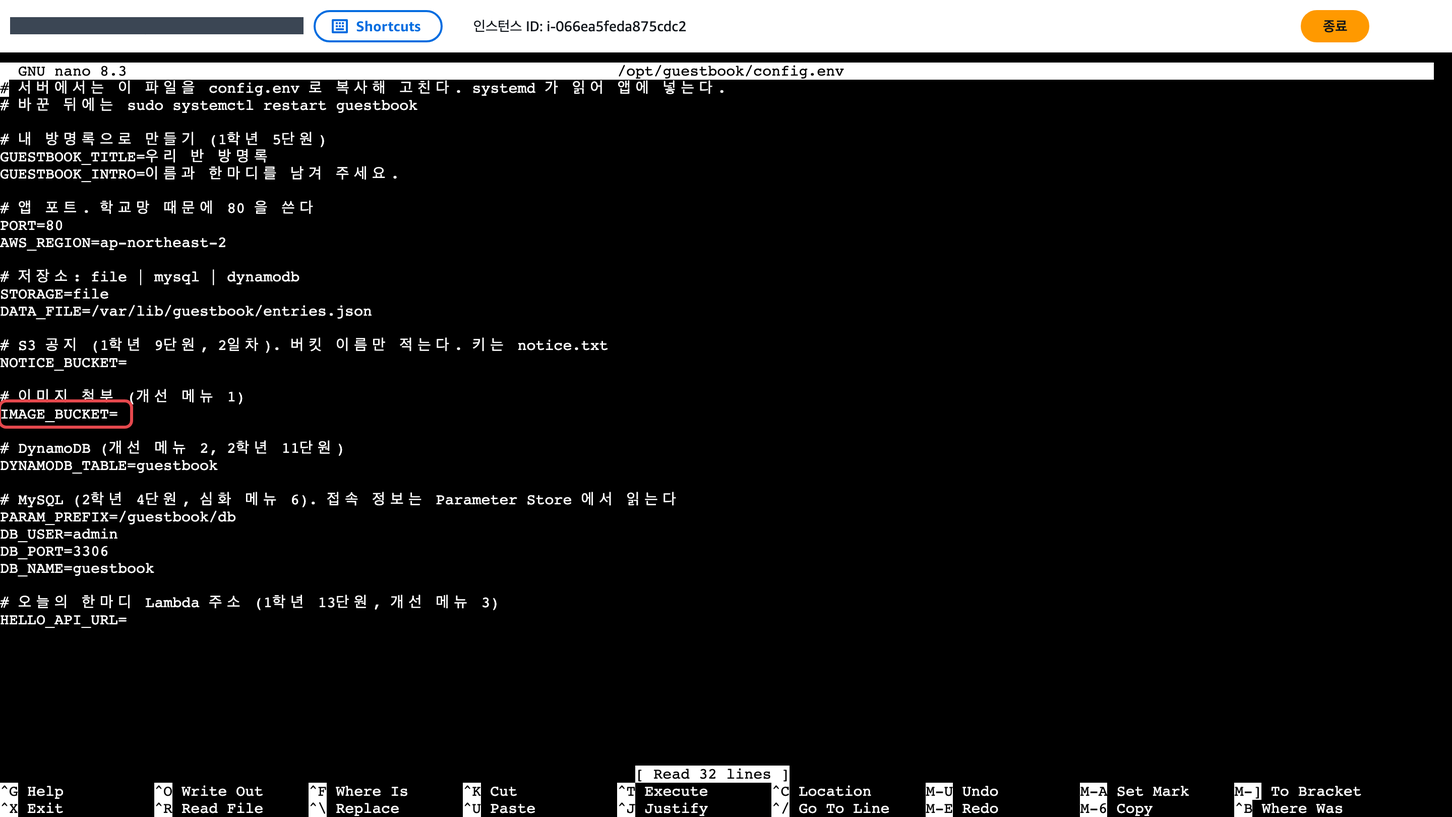
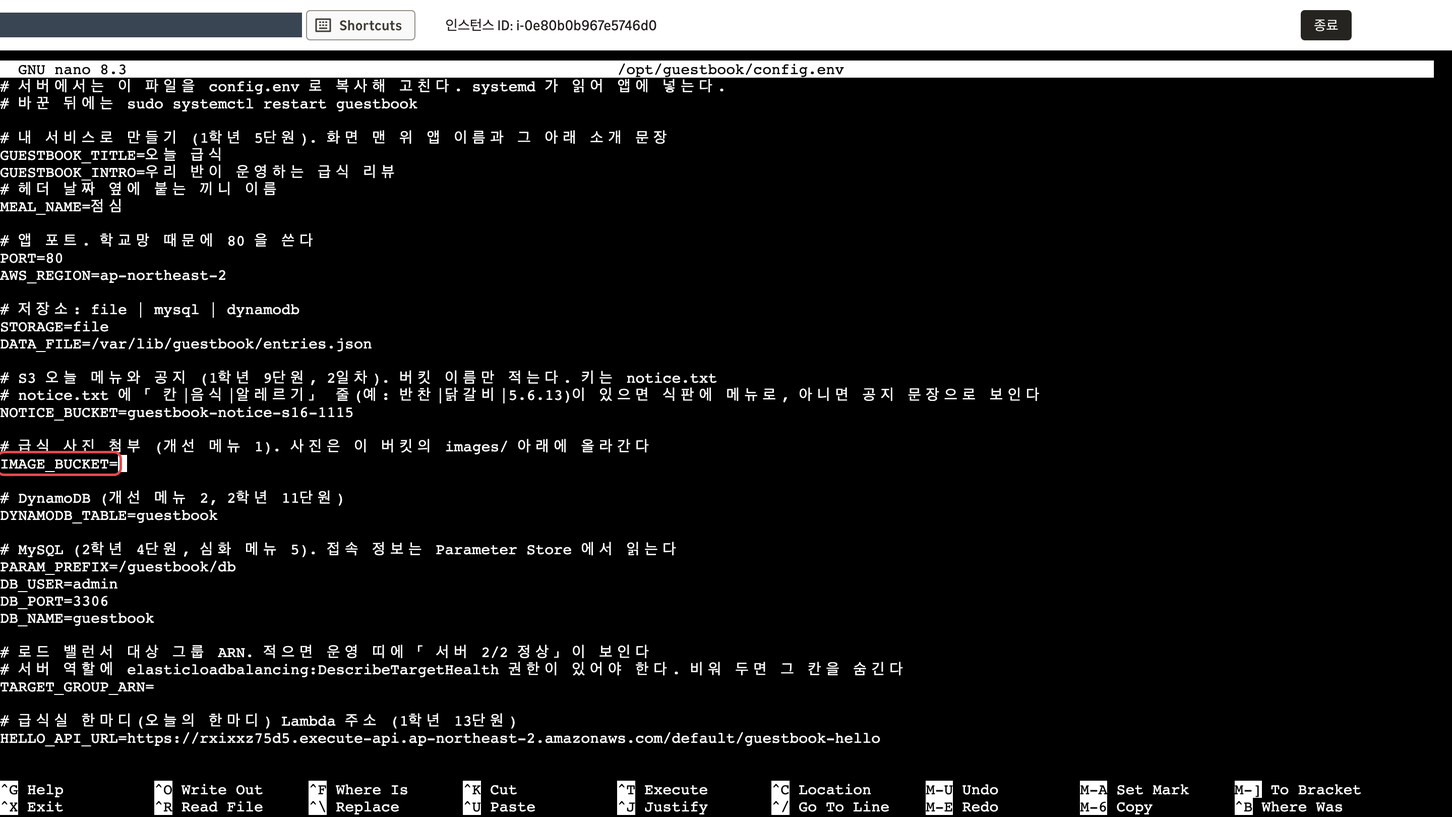
런북 출판: aws-intro
lms publish 가 생성물과 그 그림만 커밋했다.
lms 커밋 4f39256
과정 폴더 해시 5a75919 (courses/aws-intro)

diff --git a/site/src/content/docs/u11.md b/site/src/content/docs/u11.md
@@ -1,5 +1,5 @@
 ---
-# 생성물. lms build 가 courses/aws-intro/units/u11 에서 만든다. 손으로 고치지 않는다. 원본 해시 ddb6b7c2b000
+# 생성물. lms build 가 courses/aws-intro/units/u11 에서 만든다. 손으로 고치지 않는다. 원본 해시 5ade9e724517
 title: 11단원 시작 템플릿으로 새 VPC 에 서버
 sidebar:
   label: 11단원 시작 템플릿
@@ -8,8 +8,8 @@ description: 켜자마자 앱이 뜨는 서버. 실습 순서, 복사할 명령,
 
 :::note[이 단원에서 급식 리뷰 앱이 얻는 것]
 - **전:** 서버 한 대마다 5단원 명령을 손으로 칩니다.
-- **후:** 서버가 켜지는 순간 앱이 스스로 설치됩니다.
-- **그래서:** 똑같은 서버를 몇 대든 몇 분 만에 만들고, 사람이 빠뜨리는 단계가 없어집니다. 12단원 오토 스케일링이 서버를 대신 만들 수 있는 전제가 됩니다.
+- **후:** 서버가 켜지는 순간 앱이 스스로 설치되고, 9단원에서 정한 설정(공지 버킷 이름)까지 스스로 적습니다.
+- **그래서:** 똑같은 서버를 몇 대든 몇 분 만에 만들고, 사람이 빠뜨리는 단계가 없어집니다. 12단원 오토 스케일링이 서버를 대신 만들 수 있는 전제가 됩니다. 템플릿에 설정까지 담아 두면 오토 스케일링이 새로 만든 서버도 사람 손 없이 같은 화면을 보여 줍니다.
 :::
 
 <details class="walkthrough">
@@ -25,7 +25,7 @@ description: 켜자마자 앱이 뜨는 서버. 실습 순서, 복사할 명령,
 
 ### 켜지자마자 앱이 뜨는 서버
 
-사용자 데이터 (서버가 처음 켜질 때 한 번 실행). 5단원에서 손으로 친 명령과 같습니다. systemd 는 서버가 켜질 때 앱을 자동으로 켜 주는 관리자입니다.
+사용자 데이터 (서버가 처음 켜질 때 한 번 실행). 5단원에서 손으로 친 명령에 9단원 설정 한 줄을 더했습니다. 붙여 넣은 뒤 `공지버킷` 자리를 9단원에서 만든 내 공지 버킷 이름으로 바꿉니다(예: `guestbook-notice-s01-1112`). systemd 는 서버가 켜질 때 앱을 자동으로 켜 주는 관리자입니다.
 
 ```bash
 #!/bin/bash
@@ -41,6 +41,8 @@ python3.11 -m venv .venv
 .venv/bin/pip install -r requirements.txt
 # 설정 파일 견본을 config.env 로 복사합니다
 cp config.env.example config.env
+# 9단원 공지 버킷 이름을 설정 파일에 적습니다. 공지버킷 자리를 내 버킷 이름으로 바꿉니다
+sed -i 's/^NOTICE_BUCKET=.*/NOTICE_BUCKET=공지버킷/' /opt/guestbook/config.env
 # 리뷰를 저장할 폴더를 만듭니다
 mkdir -p /var/lib/guestbook
 # 관리자(systemd)에게 앱 등록 파일을 넘깁니다
@@ -53,6 +55,10 @@ systemctl enable --now guestbook
 
 :::caution[첫 줄 `#!/bin/bash` 를 지우지 않습니다]
 첫 줄 `#!/bin/bash` 는 「이 글은 bash 로 실행할 대본입니다」라는 표시입니다. 이 줄이 없으면 서버는 사용자 데이터를 대본으로 알아보지 못해 한 줄도 실행하지 않고, 새 서버에 앱이 뜨지 않습니다. 오른쪽 위 복사 단추로 통째로 복사해 붙여 넣고, 붙여 넣은 칸의 맨 첫 줄이 `#!/bin/bash` 인지 봅니다.
+:::
+
+:::caution[공지버킷 을 내 버킷 이름으로 바꿉니다]
+`NOTICE_BUCKET=공지버킷` 의 `공지버킷` 을 그대로 두면 새 서버의 식판 자리에 「메뉴 오류」와 `(오늘 메뉴를 읽지 못했습니다: ParamValidationError)` 가 보입니다. 버킷 이름은 S3 버킷 목록에서 `guestbook-notice-` 로 시작하는 이름을 복사합니다. 앞뒤에 빈칸이나 따옴표를 넣지 않습니다.
 :::
 
 1. 시작 템플릿 생성 화면의 「시작 템플릿 이름 - 필수」 칸에 `guestbook-lt` 를 넣습니다. <a href="https://ap-northeast-2.console.aws.amazon.com/ec2/home?region=ap-northeast-2#CreateTemplate:" target="_blank" rel="noopener">콘솔 열기 ↗</a>
@@ -87,7 +93,7 @@ systemctl enable --now guestbook
 
    3. 맨 아래 「사용자 데이터 - 선택 사항」 칸(①)에 위 대본을 붙여 넣고 오른쪽 「요약」 아래 「시작 템플릿 생성」(②)을 누릅니다.
 
-      ![사용자 데이터 칸에 #!/bin/bash 로 시작하는 대본을 붙여 넣고 시작 템플릿 생성 단추에 번호를 붙여 표시한 화면](../../assets/u11/tpl-userdata.png)
+      ![사용자 데이터 칸에 #!/bin/bash 로 시작하고 NOTICE_BUCKET sed 줄이 든 대본을 붙여 넣고 시작 템플릿 생성 단추에 번호를 붙여 표시한 화면](../../assets/u11/tpl-userdata.png)
 
 5. 템플릿으로 새 서버를 켭니다. <a href="https://ap-northeast-2.console.aws.amazon.com/ec2/home?region=ap-northeast-2#LaunchTemplates:" target="_blank" rel="noopener">콘솔 열기 ↗</a>
    1. 시작 템플릿 목록에서 `guestbook-lt` 행을 체크(①)하고 「작업」(②) → 「템플릿으로 인스턴스 시작」(③)을 누릅니다.
@@ -106,7 +112,7 @@ systemctl enable --now guestbook
 
    ![인스턴스 목록에서 guestbook-2 행 체크와 퍼블릭 IPv4 주소 칸에 번호를 붙여 표시한 화면. 주소 값은 가렸습니다](../../assets/u11/tpl-public-ip.png)
 
-   ![새 서버의 급식 리뷰 앱 첫 화면, 맨 위 띠의 서버 ip-10-0-1-143 과 아래 아직 리뷰가 없습니다 가 보이는 화면](../../assets/u11/tpl-browser.png)
+   ![새 서버의 급식 리뷰 앱 첫 화면, 맨 위 띠의 서버 ip-10-0-1-96 과 여섯 칸이 채워진 식판, 아래 아직 리뷰가 없습니다 가 보이는 화면](../../assets/u11/tpl-browser.png)
 
 ## 막혔을 때
 
@@ -169,40 +175,18 @@ sudo tail -n 30 /var/log/cloud-init-output.log
 ### 새 서버에 「아직 리뷰가 없습니다」가 보입니다
 
 :::tip[정상입니다]{icon="approve-check-circle"}
-어제 쓴 리뷰는 어제 서버의 디스크 파일에 있습니다. 미니 프로젝트의 [DynamoDB 메뉴](/guestbook-lab/menu/2-dynamodb/)가 이 문제를 풉니다.
+리뷰는 쓴 서버의 디스크 파일에 남습니다. guestbook-1 에 쓴 리뷰는 guestbook-2 에 없습니다. 미니 프로젝트의 [DynamoDB 과제](/guestbook-lab/menu/2-dynamodb/)가 이 문제를 풉니다.
 :::
 
-### 새 서버에서 9단원 오늘 메뉴가 사라졌습니다
+### 새 서버의 식판이 비어 있거나 「메뉴 오류」가 보입니다
 
-:::tip[정상입니다]{icon="approve-check-circle"}
-사용자 데이터가 `config.env.example` 을 그대로 복사해서 새 서버의 `NOTICE_BUCKET` 이 비어 있습니다. 어제 리뷰가 새 서버에 없던 것과 같은 이유입니다.
+:::caution[고칠 것]
+사용자 데이터의 `공지버킷` 을 내 버킷 이름으로 바꾸지 않았거나 이름이 틀렸습니다. 빈 식판에 「아직 오늘 메뉴가 없습니다」가 보이면 대본에 `sed` 줄이 빠졌습니다. 「메뉴 오류」와 `ParamValidationError` 가 보이면 `공지버킷` 을 그대로 두었고, `NoSuchBucket` 이 보이면 영문 버킷 이름을 잘못 적어 그런 버킷이 없습니다.
 
-식판을 다시 채우려면 새 서버에서 설정 파일을 고칩니다. 순서는 [9단원](/guestbook-lab/u9/) 8번과 같습니다.
+지금 켠 서버는 설정 파일을 고쳐 바로잡고, 템플릿도 고쳐야 12단원 오토 스케일링 서버가 같은 문제를 피합니다.
 
-1. 인스턴스 목록에서 `guestbook-2` 행만 체크하고 「연결」 → 「SSM Session Manager」 → 「연결」을 누릅니다. <a href="https://ap-northeast-2.console.aws.amazon.com/ec2/home?region=ap-northeast-2#Instances:" target="_blank" rel="noopener">콘솔 열기 ↗</a>
-2. 설정 파일을 엽니다.
-
-   ```bash
-   # 앱 설정 파일을 nano 편집기로 엽니다
-   sudo nano /opt/guestbook/config.env
-   ```
-
-3. 이미 있는 빈 `NOTICE_BUCKET=` 줄(①)의 `=` 바로 뒤에 내 공지 버킷 이름을 적습니다. 새 줄을 더하지 않습니다. Ctrl+O(②)를 누르고 Enter 로 저장한 뒤 Ctrl+X(③)로 나옵니다.
-
-   ```text
-   NOTICE_BUCKET=공지버킷
-   ```
-
-   ![nano 편집기에서 NOTICE_BUCKET= 줄 뒤에 버킷 이름을 적은 줄과 아래쪽 ^O Write Out, ^X Exit 에 번호를 붙여 표시한 화면](../../assets/u9/nano-edit.png)
-
-4. 적은 줄을 확인하고 앱을 다시 켭니다.
-
-   ```bash
-   # 설정 파일 내용을 화면에 출력해 고친 줄을 확인합니다
-   cat /opt/guestbook/config.env
-   # 앱을 다시 켜서 바뀐 설정을 읽게 합니다
-   sudo systemctl restart guestbook
-   ```
+1. 지금 서버: [9단원](/guestbook-lab/u9/) 8번 순서로 `NOTICE_BUCKET=` 줄에 내 버킷 이름을 적고 `sudo systemctl restart guestbook` 합니다.
+2. 템플릿: 시작 템플릿 목록에서 `guestbook-lt` 행을 체크하고 「작업」 → 「템플릿 수정(새 버전 생성)」 → 「고급 세부 정보」의 「사용자 데이터」에서 `공지버킷` 을 고친 뒤 「시작 템플릿 생성」. 「작업」 → 「기본 버전 설정」에서 가장 큰 버전 번호를 골라 저장합니다.
 :::
 
 ### 보안 그룹 규칙 칸이 보이지 않습니다

diff --git a/site/src/content/docs/menu/1-image.md b/site/src/content/docs/menu/1-image.md
@@ -1,6 +1,6 @@
 ---
-# 생성물. lms build 가 courses/aws-intro/units/u14/menus/image.md 에서 만든다. 손으로 고치지 않는다. 원본 해시 e3f623d4f2cf
-title: "메뉴 1. 급식 사진 첨부"
+# 생성물. lms build 가 courses/aws-intro/units/u14/menus/image.md 에서 만든다. 손으로 고치지 않는다. 원본 해시 e186dfaafef3
+title: "과제 1. 급식 사진 첨부"
 sidebar:
   label: "1. 급식 사진 첨부"
   order: 1
@@ -66,7 +66,7 @@ sidebar:
 
       ![인스턴스 목록에서 이름이 빈 서버 행 체크, 인스턴스 ID, 연결 단추에 번호를 붙여 표시한 화면](../../../assets/menu/find-instance.png)
 
-4. 첫 번째 서버에서 설정 파일을 고칩니다. 설정 파일에는 메뉴마다 쓸 줄이 미리 비어 있습니다. 새 줄을 더하면 같은 이름이 두 줄이 되고 아래쪽 줄 값이 쓰여서 헷갈리니 이미 있는 줄에 이어 씁니다.
+4. 첫 번째 서버에서 설정 파일을 고칩니다. 설정 파일에는 과제마다 쓸 줄이 미리 비어 있습니다. 새 줄을 더하면 같은 이름이 두 줄이 되고 아래쪽 줄 값이 쓰여서 헷갈리니 이미 있는 줄에 이어 씁니다.
    1. 설정 파일을 엽니다. 빈 `IMAGE_BUCKET=` 줄이 보입니다.
 
       ```bash
@@ -104,15 +104,15 @@ sidebar:
 
 ## 확인
 
-1. 새 탭에 `http://로드 밸런서 DNS 이름` 을 엽니다([12단원](/guestbook-lab/u12/) 5번). 「리뷰 남기기」에 「급식 사진」 단추가 생깁니다. 「어떤 메뉴」(①)에서 사진의 음식을 고르고, 「급식 사진」(②)으로 사진을 고른 뒤 한줄평을 쓰고 「리뷰 올리기」(③)를 누릅니다. 휴대폰에서 누르면 바로 찍거나 사진첩에서 고를 수 있습니다. <a href="https://ap-northeast-2.console.aws.amazon.com/ec2/home?region=ap-northeast-2#LoadBalancers:" target="_blank" rel="noopener">로드 밸런서 ↗</a>
+1. 새 탭에 `http://로드 밸런서 DNS 이름` 을 엽니다([12단원](/guestbook-lab/u12/) 5번). 「리뷰 남기기」에 「급식 사진」 단추가 생깁니다. 「어떤 메뉴」(①)에서 사진의 음식을 고르고, 「급식 사진」(②)으로 사진을 고른 뒤 한줄평을 쓰고 「리뷰 올리기」(③)를 누릅니다. 휴대폰에서는 화면 아래 한줄평 칸을 누르면 별명과 「어떤 메뉴」 칸이 열립니다. 「급식 사진」(카메라 모양)을 누르면 바로 찍거나 사진첩에서 고를 수 있습니다. 사진은 5MB 까지 올릴 수 있습니다. <a href="https://ap-northeast-2.console.aws.amazon.com/ec2/home?region=ap-northeast-2#LoadBalancers:" target="_blank" rel="noopener">로드 밸런서 ↗</a>
 
    ![리뷰 남기기의 어떤 메뉴 칸, 고른 사진 이름이 보이는 급식 사진 단추, 리뷰 올리기 단추에 번호를 붙여 표시한 화면](../../../assets/menu1/app-form.png)
 
-   진짜 급식 사진이 없으면 아래 견본 사진을 내려받아 올립니다. 이름을 누르면 내 컴퓨터의 「다운로드」 폴더에 저장되고, 「급식 사진」을 누른 창에서 그 폴더를 열어 고릅니다. 모두 재사용이 허락된 사진입니다([출처](https://github.com/pghoya2956/guestbook-lab/blob/main/site/public/samples/CREDITS.md)).
+   진짜 급식 사진이 없으면 아래 견본 사진을 내려받아 올립니다. 이름을 누르면 내 컴퓨터의 「다운로드」 폴더에 저장되고, 「급식 사진」을 누른 창에서 그 폴더를 열어 고릅니다. 모두 재사용이 허락된 사진입니다([출처](https://github.com/pghoya2956/guestbook-lab/blob/main/site/public/samples/CREDITS.md)). 귤 사진은 「어떤 메뉴」에서 귤을 고르면 식판 아래 줄 오른쪽 후식 칸이 바뀝니다.
 
    <a href="/guestbook-lab/samples/hyeonmi-bap.jpg" download>현미밥</a>, <a href="/guestbook-lab/samples/sogogi-miyeokguk.jpg" download>소고기미역국</a>, <a href="/guestbook-lab/samples/dakgalbi.jpg" download>닭갈비</a>, <a href="/guestbook-lab/samples/kongnamul-muchim.jpg" download>콩나물무침</a>, <a href="/guestbook-lab/samples/baechu-kimchi.jpg" download>배추김치</a>, <a href="/guestbook-lab/samples/gyul.jpg" download>귤</a>
 
-2. 고른 메뉴의 식판 칸(①)이 올린 사진으로 바뀌고, 리뷰 위 사진 줄(②)과 리뷰 오른쪽에도 사진이 보입니다. 칸 사진은 그 메뉴로 올라온 가장 최근 사진입니다. 메뉴를 고르지 않은 사진은 리뷰에만 보입니다.
+2. 고른 메뉴의 식판 칸(①)이 올린 사진으로 바뀌고, 리뷰 위 사진 줄(②)과 리뷰 오른쪽에도 사진이 보입니다. 칸 사진은 그 메뉴를 고른 사진 리뷰 가운데 가장 최근 것입니다. 날짜를 넘겨도 다음 사진이 올라올 때까지 그대로 보입니다. 메뉴를 고르지 않은 사진은 리뷰에만 보입니다.
 
    ![닭갈비 식판 칸이 올린 사진으로 채워지고 아래 사진 줄에 같은 사진이 보이는 화면에 번호를 붙여 표시한 화면](../../../assets/menu1/app-image.png)
 
@@ -122,9 +122,12 @@ sidebar:
 
 ## 막히면
 
-- 새로고침하면 사진 붙은 리뷰와 식판 칸 사진이 보였다 안 보였다 합니다: 리뷰는 아직 서버마다 자기 디스크에 저장됩니다(`저장소: file`). 사진은 S3 에 있지만 리뷰는 올린 서버에만 남습니다. [메뉴 2](/guestbook-lab/menu/2-dynamodb/)까지 하면 두 서버가 같은 리뷰와 사진을 보여 줍니다.
-- 사진을 올렸는데 식판 칸이 그대로입니다: 「어떤 메뉴」를 고르지 않고 올렸습니다. 메뉴를 고르고 한 번 더 올립니다.
+- 새로고침하면 사진 붙은 리뷰와 식판 칸 사진이 보였다 안 보였다 합니다: 리뷰는 아직 서버마다 자기 디스크에 저장됩니다(`저장소: file`). 사진은 S3 에 있지만 리뷰는 올린 서버에만 남습니다. [과제 2](/guestbook-lab/menu/2-dynamodb/)까지 하면 두 서버가 같은 리뷰와 사진을 보여 줍니다.
+- 사진을 올렸는데 식판 칸이 그대로입니다: 먼저 맨 위 검은 띠의 「이 화면을 보낸 서버:」 이름을 봅니다. 리뷰를 올린 서버와 다르면 그 서버에는 리뷰가 없습니다(`저장소: file`). 몇 번 새로고침해 같은 서버가 나올 때 봅니다. 같은 서버인데도 그대로면 「어떤 메뉴」를 고르지 않고 올렸습니다. 메뉴를 고르고 한 번 더 올립니다.
 - 새로고침마다 「급식 사진」 단추가 보였다 사라집니다: 4번을 한 서버에만 했습니다. 두 번째 서버도 고칩니다.
 - 올리면 「리뷰를 저장하지 못했습니다」가 나옵니다: 사진을 버킷에 올릴 권한이 없습니다. 정책의 버킷 이름과 `images/*` 경로를 봅니다. 서버에서 `sudo journalctl -u guestbook -n 30` 끝부분에 `AccessDenied` 가 보입니다.
 - `IMAGE_BUCKET=` 줄을 못 찾겠습니다: nano 에서 Ctrl+W 를 누르고 `IMAGE_BUCKET` 을 쳐서 Enter 를 누르면 그 줄로 갑니다.
 - 오토 스케일링이 서버를 새로 만들면(교체, 늘리기) 새 서버의 설정 파일은 처음 상태입니다. 새 서버도 3번과 4번 순서로 고칩니다.
+- 「사진이 5MB 를 넘습니다. 더 작은 사진을 고르세요」가 나옵니다: 사진이 5MB 보다 큽니다. 휴대폰 카메라 설정에서 사진 크기를 줄이거나, 견본 사진을 씁니다. 큰 사진을 올리자 브라우저가 「연결이 재설정되었습니다」를 보이면 같은 까닭입니다.
+- 「리뷰 남기기」에 「어떤 메뉴」 칸이 없고 식판이 비어 있습니다: 그 서버의 `NOTICE_BUCKET` 이 비어 있습니다. [11단원](/guestbook-lab/u11/) 막혔을 때 「새 서버의 식판이 비어 있거나 「메뉴 오류」가 보입니다」 순서로 고칩니다.
+- 사진을 고르자 「사진이 5MB 를 넘습니다. 더 작은 사진을 고르세요.」가 보입니다: 앱은 5MB 까지만 받습니다. 휴대폰 사진이면 크기를 줄여 다시 고르거나 위 견본 사진을 씁니다.

diff --git a/site/src/content/docs/menu/2-dynamodb.md b/site/src/content/docs/menu/2-dynamodb.md
@@ -1,6 +1,6 @@
 ---
-# 생성물. lms build 가 courses/aws-intro/units/u14/menus/dynamodb.md 에서 만든다. 손으로 고치지 않는다. 원본 해시 b93e747b7f89
-title: "메뉴 2. 저장소를 데이터베이스로"
+# 생성물. lms build 가 courses/aws-intro/units/u14/menus/dynamodb.md 에서 만든다. 손으로 고치지 않는다. 원본 해시 b294fd47dcee
+title: "과제 2. 저장소를 데이터베이스로"
 sidebar:
   label: "2. DynamoDB 저장소"
   order: 2
@@ -29,7 +29,7 @@ sidebar:
 
    ![일반 정보의 Amazon 리소스 이름(ARN)과 복사 아이콘에 표시한 화면](../../../assets/menu2/ddb-arn.png)
 
-3. 서버 역할에 테이블을 읽고 쓸 권한을 붙입니다. 순서는 [메뉴 1](/guestbook-lab/menu/1-image/) 2번과 같습니다. <a href="https://console.aws.amazon.com/iam/home#/roles/details/guestbook-ec2-role?section=permissions" target="_blank" rel="noopener">guestbook-ec2-role 열기 ↗</a>
+3. 서버 역할에 테이블을 읽고 쓸 권한을 붙입니다. 순서는 [과제 1](/guestbook-lab/menu/1-image/) 2번과 같습니다. <a href="https://console.aws.amazon.com/iam/home#/roles/details/guestbook-ec2-role?section=permissions" target="_blank" rel="noopener">guestbook-ec2-role 열기 ↗</a>
    1. `guestbook-ec2-role` 의 「권한 추가」 → 「인라인 정책 생성」을 누릅니다. 인라인 정책은 이 역할에만 붙는 권한 쪽지입니다.
    2. 「JSON」(①)을 누르고(권한을 적는 정해진 글 형식) 편집기 칸(②)의 내용을 모두 지운 뒤 아래를 붙여 넣습니다. `테이블ARN` 자리에 2번에서 복사한 주소를 붙여 넣습니다.
 
@@ -48,9 +48,9 @@ sidebar:
 
    3. 맨 아래 「다음」 → 「정책 이름」에 `guestbook-dynamodb` → 「정책 생성」을 누릅니다.
 
-4. 서버 두 대를 찾아 첫 번째 서버에 접속합니다. 순서는 [메뉴 1](/guestbook-lab/menu/1-image/) 3번과 같습니다(대상 그룹 `guestbook-tg` → 「대상」 탭의 인스턴스 ID 두 개 → 인스턴스 목록에서 한 행만 체크 → 「연결」).
+4. 서버 두 대를 찾아 첫 번째 서버에 접속합니다. 순서는 [과제 1](/guestbook-lab/menu/1-image/) 3번과 같습니다(대상 그룹 `guestbook-tg` → 「대상」 탭의 인스턴스 ID 두 개 → 인스턴스 목록에서 한 행만 체크 → 「연결」).
 
-5. 첫 번째 서버에서 설정 파일을 고칩니다. 설정 파일에는 메뉴마다 쓸 줄이 미리 있습니다. 새 줄을 더하면 같은 이름이 두 줄이 되고 아래쪽 줄 값이 쓰여서 헷갈리니 이미 있는 줄을 고칩니다.
+5. 첫 번째 서버에서 설정 파일을 고칩니다. 설정 파일에는 과제마다 쓸 줄이 미리 있습니다. 새 줄을 더하면 같은 이름이 두 줄이 되고 아래쪽 줄 값이 쓰여서 헷갈리니 이미 있는 줄을 고칩니다.
    1. 설정 파일을 엽니다. `STORAGE=file` 줄이 보입니다.
 
       ```bash
@@ -90,21 +90,21 @@ sidebar:
 
 1. 새 탭에 `http://로드 밸런서 DNS 이름` 을 열어 리뷰를 하나 씁니다. 새로고침하며 맨 위 띠의 「이 화면을 보낸 서버:」(①)가 바뀌어도 같은 리뷰(②)가 보이는지 봅니다. 두 서버 모두 띠에 `저장소: dynamodb` 가 보여야 합니다. <a href="https://ap-northeast-2.console.aws.amazon.com/ec2/home?region=ap-northeast-2#LoadBalancers:" target="_blank" rel="noopener">로드 밸런서 ↗</a>
 
-   ![맨 위 띠의 서버 ip-10-0-1-28 과 저장소 dynamodb, 새로 쓴 리뷰에 번호를 붙여 표시한 화면](../../../assets/menu2/app-server-a.png)
+   ![맨 위 띠의 서버 ip-10-0-1-10 과 저장소 dynamodb 에 번호를 붙이고 리뷰 3개가 보이는 화면](../../../assets/menu2/app-server-a.png)
 
-   ![새로고침해 띠의 서버가 ip-10-0-2-62 로 바뀌고 같은 리뷰가 보이는 화면에 번호를 붙여 표시한 화면](../../../assets/menu2/app-server-b.png)
+   ![새로고침해 띠의 서버가 ip-10-0-2-162 로 바뀌고 같은 리뷰 3개가 보이는 화면에 번호를 붙여 표시한 화면](../../../assets/menu2/app-server-b.png)
 
-2. 테이블 화면 오른쪽 위 「표 항목 탐색」을 누릅니다. 아래 「반환된 항목」 표에 쓴 리뷰가 한 줄씩 쌓여 있는지 봅니다. 급식 리뷰 앱이 쓴 줄에는 받은 서버 `host` 와 고른 메뉴 `dish` 칸도 있습니다. <a href="https://ap-northeast-2.console.aws.amazon.com/dynamodbv2/home?region=ap-northeast-2#tables" target="_blank" rel="noopener">테이블 목록 ↗</a>
+2. 테이블 화면 오른쪽 위 「표 항목 탐색」을 누릅니다. 아래 「반환된 항목」 표에 쓴 리뷰가 한 줄씩 쌓여 있는지 봅니다. 급식 리뷰 앱이 쓴 줄에는 받은 서버 `host`, 고른 메뉴 `dish`, 리뷰를 쓴 때의 메뉴 원문 `menu` 칸도 있습니다. `menu` 는 지난 날 화면의 식판을 그릴 때 씁니다. 표의 칸은 `id, dish, host, image_key, menu` 순으로 보이고 값이 없는 칸은 `<empty>` 로 보입니다. <a href="https://ap-northeast-2.console.aws.amazon.com/dynamodbv2/home?region=ap-northeast-2#tables" target="_blank" rel="noopener">테이블 목록 ↗</a>
 
    ![guestbook 테이블 화면 오른쪽 위 표 항목 탐색 단추에 표시한 화면](../../../assets/menu2/ddb-explore-btn.png)
 
-   ![반환된 항목 표에 id, image_key, msg, name, ts 가 들어간 글 한 줄에 표시한 화면](../../../assets/menu2/ddb-items.png)
+   ![반환된 항목 표에 id, dish, host, image_key, menu 칸과 리뷰 세 줄이 보이는 화면](../../../assets/menu2/ddb-items.png)
 
 ## 막히면
 
 - 새로고침마다 저장소가 `file` 과 `dynamodb` 로 바뀝니다: 5번을 한 서버에만 했습니다. 두 번째 서버도 고칩니다.
-- 전에 쓴 리뷰가 사라졌습니다: 정상입니다. 전 리뷰는 서버 디스크 파일에 있고 이제 앱은 테이블을 읽습니다.
-- 역할 화면의 `access-analyzer:ListPolicyGenerations에 대한 액세스 거부됨` 빨간 상자: 이 메뉴에서 쓰지 않는 「정책 생성」 기능의 권한 오류라 무시해도 됩니다.
+- 전에 쓴 리뷰가 사라졌습니다: 정상입니다. 전 리뷰는 서버 디스크 파일에 있고 이제 앱은 테이블을 읽습니다. 그래서 리뷰 목록, 사진 줄, 식판 칸 사진, 칸별 리뷰 수, 「리뷰 가장 많음」도 처음으로 돌아갑니다. 올린 사진 파일은 S3 사진 버킷에 그대로 남아 있습니다.
+- 역할 화면의 `access-analyzer:ListPolicyGenerations에 대한 액세스 거부됨` 빨간 상자: 이 과제에서 쓰지 않는 「정책 생성」 기능의 권한 오류라 무시해도 됩니다.
 - 리뷰 자리에 「리뷰 저장소 dynamodb 에 연결하지 못했습니다」가 나오고 띠의 저장소 옆에 노란 점과 「오류」가 보입니다: 화면에 나온 오류 이름을 먼저 봅니다. 자세한 내용은 서버에서 아래 명령으로 앱 기록을 봅니다. 앱은 실행하며 일어난 일을 일기장처럼 기록해 두고, `journalctl` 은 그 일기장을 보는 명령입니다. 끝부분의 오류 이름으로 원인을 찾습니다. `AccessDeniedException`(권한 없음)이면 정책의 ARN, `ResourceNotFoundException`(그런 테이블이 없음)이면 테이블 이름을 봅니다.
 
   ```bash

diff --git a/site/src/content/docs/menu/5-rds.md b/site/src/content/docs/menu/5-rds.md
@@ -1,6 +1,6 @@
 ---
-# 생성물. lms build 가 courses/aws-intro/units/u14/menus/rds.md 에서 만든다. 손으로 고치지 않는다. 원본 해시 2d0568a595b3
-title: "메뉴 5(심화). 저장소를 MySQL 데이터베이스로"
+# 생성물. lms build 가 courses/aws-intro/units/u14/menus/rds.md 에서 만든다. 손으로 고치지 않는다. 원본 해시 6c3f07dc697d
+title: "과제 5(심화). 저장소를 MySQL 데이터베이스로"
 sidebar:
   label: "5. MySQL (심화)"
   order: 5
@@ -89,7 +89,7 @@ sidebar:
 
       ![내 파라미터 목록의 /guestbook/db/host String 과 /guestbook/db/password SecureString 두 줄에 표시한 화면](../../../assets/menu5/ps-list.png)
 
-5. 서버 역할에 파라미터를 읽을 권한을 붙입니다. 순서는 [메뉴 1](/guestbook-lab/menu/1-image/) 2번과 같습니다(`guestbook-ec2-role` → 「권한 추가」 → 「인라인 정책 생성」 → 「JSON」). 인라인 정책은 이 역할에만 붙는 권한 쪽지, JSON 은 권한을 적는 정해진 글 형식, `Resource` 줄의 ARN 은 AWS 자원의 전체 주소입니다. 아래를 그대로 붙여 넣고 정책 이름은 `guestbook-ssm-db` 로 합니다. 계정 번호 자리의 `*` 는 「내 계정」이라는 뜻으로 그대로 둡니다. <a href="https://console.aws.amazon.com/iam/home#/roles/details/guestbook-ec2-role?section=permissions" target="_blank" rel="noopener">guestbook-ec2-role 열기 ↗</a>
+5. 서버 역할에 파라미터를 읽을 권한을 붙입니다. 순서는 [과제 1](/guestbook-lab/menu/1-image/) 2번과 같습니다(`guestbook-ec2-role` → 「권한 추가」 → 「인라인 정책 생성」 → 「JSON」). 인라인 정책은 이 역할에만 붙는 권한 쪽지, JSON 은 권한을 적는 정해진 글 형식, `Resource` 줄의 ARN 은 AWS 자원의 전체 주소입니다. 아래를 그대로 붙여 넣고 정책 이름은 `guestbook-ssm-db` 로 합니다. 계정 번호 자리의 `*` 는 「내 계정」이라는 뜻으로 그대로 둡니다. <a href="https://console.aws.amazon.com/iam/home#/roles/details/guestbook-ec2-role?section=permissions" target="_blank" rel="noopener">guestbook-ec2-role 열기 ↗</a>
 
    ```json
    {
@@ -104,9 +104,9 @@ sidebar:
 
    ![정책 편집기의 JSON 단추와 ssm:GetParameter 정책을 붙여 넣은 칸에 번호를 붙여 표시한 화면](../../../assets/menu5/policy-json.png)
 
-6. 서버 한 대에 접속합니다. 순서는 [메뉴 1](/guestbook-lab/menu/1-image/) 3번과 같습니다(대상 그룹 `guestbook-tg` → 「대상」 탭의 인스턴스 ID → 인스턴스 목록에서 한 행만 체크 → 「연결」).
+6. 서버 한 대에 접속합니다. 순서는 [과제 1](/guestbook-lab/menu/1-image/) 3번과 같습니다(대상 그룹 `guestbook-tg` → 「대상」 탭의 인스턴스 ID → 인스턴스 목록에서 한 행만 체크 → 「연결」).
 
-7. 그 서버에서 설정 파일을 고칩니다. 설정 파일에는 메뉴마다 쓸 줄이 미리 있습니다. 새 줄을 더하면 같은 이름이 두 줄이 되고 아래쪽 줄 값이 쓰여서 헷갈리니 이미 있는 `STORAGE=` 줄을 고칩니다.
+7. 그 서버에서 설정 파일을 고칩니다. 설정 파일에는 과제마다 쓸 줄이 미리 있습니다. 새 줄을 더하면 같은 이름이 두 줄이 되고 아래쪽 줄 값이 쓰여서 헷갈리니 이미 있는 `STORAGE=` 줄을 고칩니다.
    1. 설정 파일을 엽니다.
 
       ```bash
@@ -148,6 +148,7 @@ sidebar:
 
 ## 막히면
 
+- 전에 쓴 리뷰와 식판 칸 사진, 칸별 리뷰 수가 처음으로 돌아갔습니다: 정상입니다. 앱이 이제 MySQL 을 읽고, 전 리뷰는 서버 디스크 파일이나 DynamoDB 에 남아 있습니다. 올린 사진 파일은 S3 사진 버킷에 그대로 있습니다. 앱이 처음 켜질 때 표에 `host`, `dish`, `menu` 칸을 스스로 더합니다.
 - 페이지가 열리지 않거나, 리뷰 자리에 「리뷰 저장소 mysql 에 연결하지 못했습니다」가 나옵니다: 서버에서 아래 명령으로 앱 기록을 봅니다. 앱은 실행하며 일어난 일을 일기장처럼 기록해 두고, `journalctl` 은 그 일기장을 보는 명령입니다. 끝부분의 오류 이름으로 원인을 찾습니다.
 
   ```bash
@@ -175,7 +176,7 @@ sidebar:
 
 DB 는 켜져 있는 동안 시간당 요금이 붙습니다. 확인이 끝나면 바로 지웁니다. <a href="https://ap-northeast-2.console.aws.amazon.com/rds/home?region=ap-northeast-2#databases:" target="_blank" rel="noopener">DB 목록 ↗</a>
 
-1. 고친 서버의 설정 파일을 7번 순서로 열어 `STORAGE=` 값을 원래 값(`file` 또는 메뉴 2 를 했다면 `dynamodb`)으로 되돌리고 앱을 다시 켭니다. DB 를 지운 뒤에도 `mysql` 로 두면 앱이 멈춥니다.
+1. 고친 서버의 설정 파일을 7번 순서로 열어 `STORAGE=` 값을 원래 값(`file` 또는 과제 2 를 했다면 `dynamodb`)으로 되돌리고 앱을 다시 켭니다. DB 를 지운 뒤에도 `mysql` 로 두면 앱이 멈춥니다.
 2. DB 목록에서 `guestbook-db` 를 고르고(①) 「작업」(②) → 「삭제」(③)를 누릅니다.
 
    ![DB 목록에서 guestbook-db 선택, 작업 메뉴, 삭제에 번호를 붙여 표시한 화면](../../../assets/menu5/rds-delete-menu.png)

diff --git a/site/src/content/docs/menu/3-scaling.md b/site/src/content/docs/menu/3-scaling.md
@@ -1,6 +1,6 @@
 ---
-# 생성물. lms build 가 courses/aws-intro/units/u14/menus/scaling.md 에서 만든다. 손으로 고치지 않는다. 원본 해시 e5b67fc1d9f7
-title: "메뉴 3. 트래픽 두 배 버티기"
+# 생성물. lms build 가 courses/aws-intro/units/u14/menus/scaling.md 에서 만든다. 손으로 고치지 않는다. 원본 해시 2e0cea455983
+title: "과제 3. 트래픽 두 배 버티기"
 sidebar:
   label: "3. 트래픽 두 배"
   order: 3
@@ -14,7 +14,7 @@ sidebar:
 
 오토 스케일링 그룹에 「평균 CPU 사용률을 30%로 유지」 목표를 줍니다. 바빠지면 AWS가 서버를 늘리고, 한가해지면 줄입니다. 급식 리뷰 앱은 서버의 CPU 두 개 중 하나만 쓰기 때문에 아무리 바빠도 평균 CPU 가 50% 근처에서 멈춥니다. 그래서 목표를 50 보다 낮은 30 으로 둡니다.
 
-다른 메뉴(1, 2, 3)를 했다면 이 메뉴를 **맨 마지막에** 합니다. 부하가 끝나고 서버를 줄일 때 오토 스케일링이 손으로 설정을 고친 서버를 지울 수 있습니다(아래 「막히면」).
+다른 과제(1, 2, 5)와 13단원을 했다면 이 과제를 **맨 마지막에** 합니다. 부하가 끝나고 서버를 줄일 때 오토 스케일링이 손으로 설정을 고친 서버를 지울 수 있습니다(아래 「막히면」).
 
 ## 만들 것
 
@@ -51,6 +51,8 @@ sidebar:
 
    ![CloudShell 에서 ab 명령을 쳐 Benchmarking 줄이 나온 화면](../../../assets/menu3/cloudshell-ab.png)
 
+   부하가 끝나면 ab 가 결과를 냅니다. `Failed requests` 가 0 이 아니어도 괄호 안이 `Length` 뿐이면 정상입니다. 서버마다 응답 길이가 조금씩 달라 생기는 표시이고 요청은 모두 성공했습니다.
+
 ## 확인
 
 부하를 건 뒤 4~5분이면 서버가 한 대 늘어납니다(실측 4분). 늘었는지는 부하를 거는 중에 확인합니다. `guestbook-asg` 의 「활동」 탭을 새로 고침하면 「Launching a new EC2 instance」 줄이 생기고 설명에 `AlarmHigh` 와 `increasing the capacity from 2 to 3` 이 보입니다. 급식 리뷰 앱을 새로고침하면 맨 위 띠에 처음 보는 서버 이름이 섞여 나옵니다. 늘어나는 데 몇 분 걸렸는지 적어 두고 발표에서 말합니다. <a href="https://ap-northeast-2.console.aws.amazon.com/ec2/home?region=ap-northeast-2#AutoScalingGroups:" target="_blank" rel="noopener">콘솔 열기 ↗</a>
@@ -63,5 +65,5 @@ sidebar:
 
 - 5분 부하가 끝났는데 서버가 안 늘어났습니다: 부하 명령을 한 번 더 칩니다. 그래도 안 늘면 CloudShell 에 `ab: command not found` 가 떠 있지 않은지 봅니다. CloudShell 은 한동안 손대지 않으면 연결이 끊기고, 다시 연결하면 설치한 `ab` 가 사라집니다. 설치 명령부터 다시 칩니다.
 - 대상 값을 50 으로 두었습니다: 이 앱은 평균 CPU 가 50% 를 넘기 어렵습니다. 정책을 체크하고 「작업」 → 「편집」에서 30 으로 바꿉니다.
-- 부하가 끝난 뒤 메뉴 1, 2, 3 설정이 사라졌습니다: 서버를 줄일 때 오토 스케일링이 손으로 고친 서버를 지웠습니다. 남은 서버와 새 서버는 설정 파일이 처음 상태일 수 있습니다. [메뉴 1](/guestbook-lab/menu/1-image/) 3번 순서로 서버를 찾아 설정을 다시 고칩니다.
+- 부하가 끝난 뒤 손으로 고친 설정이 사라졌습니다: 서버를 줄일 때 오토 스케일링이 손으로 고친 서버를 지웠습니다. 새로 생긴 서버는 설정 파일에 13단원 `HELLO_API_URL`, 과제 1 `IMAGE_BUCKET`, 과제 2 와 5 의 `STORAGE` 줄이 처음 상태입니다. [과제 1](/guestbook-lab/menu/1-image/) 3번 순서로 서버를 찾아 한 과제씩 다시 고칩니다. 11단원 사용자 데이터에 넣은 `NOTICE_BUCKET` 은 새 서버에도 들어가 있어 다시 고칠 필요가 없습니다.
 - 부하를 멈추면 줄어드는 데는 늘어날 때보다 더 오래 걸립니다. 정상입니다.

diff --git a/site/src/content/docs/u14.md b/site/src/content/docs/u14.md
@@ -1,20 +1,20 @@
 ---
-# 생성물. lms build 가 courses/aws-intro/units/u14 에서 만든다. 손으로 고치지 않는다. 원본 해시 62d4d3c27554
+# 생성물. lms build 가 courses/aws-intro/units/u14 에서 만든다. 손으로 고치지 않는다. 원본 해시 d95193a0e88e
 title: 14단원 미니 프로젝트
-description: 메뉴를 골라 내 급식 리뷰 앱에 붙이기. 실습 순서, 복사할 명령, 막혔을 때 고치는 법
+description: 과제를 골라 내 급식 리뷰 앱에 붙이기. 실습 순서, 복사할 명령, 막혔을 때 고치는 법
 ---
 
 :::note[이 단원에서 급식 리뷰 앱이 얻는 것]
 - **전:** 앞 단원에서 생긴 빈틈이 남아 있습니다.
-- **후:** 메뉴 하나를 골라 그 빈틈을 메웁니다.
-- **그래서:** 메뉴 표의 「해결하는 문제」가 이 단원의 이유입니다. 12단원에서 본 「리뷰가 서버마다 갈라짐」은 메뉴 2 가 풉니다.
+- **후:** 과제 하나를 골라 그 빈틈을 메웁니다.
+- **그래서:** 과제 표의 「해결하는 문제」가 이 단원의 이유입니다. 12단원에서 본 「리뷰가 서버마다 갈라짐」은 과제 2 가 풉니다.
 :::
 
 ## 따라 하기
 
-### 메뉴에서 1~2개를 골라 내 앱에 붙이세요
+### 과제 가운데 1~2개를 골라 내 앱에 붙이세요
 
-| 개선 메뉴 | 쓰는 서비스 | 완료 기준 |
+| 개선 과제 | 쓰는 서비스 | 완료 기준 |
 |---|---|---|
 | [급식 사진 첨부](/guestbook-lab/menu/1-image/) | S3, IAM 역할 | 올린 사진이 식판 칸에 보임 |
 | [저장소를 데이터베이스로](/guestbook-lab/menu/2-dynamodb/) | DynamoDB | 리뷰가 테이블에 쌓임 |
@@ -23,7 +23,7 @@ description: 메뉴를 골라 내 급식 리뷰 앱에 붙이기. 실습 순서,
 | [저장소를 MySQL로 (심화)](/guestbook-lab/menu/5-rds/) | RDS, Parameter Store | 리뷰가 DB에 쌓임 |
 | [VPC를 코드로 (심화)](/guestbook-lab/menu/6-terraform/) | Terraform | apply로 같은 구조가 생김 |
 
-메뉴마다 실습 런북 [메뉴 고르기](/guestbook-lab/menu/)에 안내 문서가 있습니다. 심화 두 메뉴는 2학년과 빨리 끝낸 학생용입니다.
+과제마다 실습 런북 [과제 고르기](/guestbook-lab/menu/)에 안내 문서가 있습니다. 심화 두 과제는 2학년과 빨리 끝낸 학생용입니다.
 
 ### 그리고, 만들고, 확인합니다
 
@@ -34,11 +34,11 @@ description: 메뉴를 골라 내 급식 리뷰 앱에 붙이기. 실습 순서,
 
 **막히면** 오류 메시지를 읽고, 실습 런북을 보고, 그래도 안 되면 손을 드세요
 
-**빨리 끝나면** 두 번째 메뉴, 또는 내 프로젝트를 올려 보기
+**빨리 끝나면** 두 번째 과제, 또는 내 프로젝트를 올려 보기
 
 ## 막혔을 때
 
-메뉴마다 안내 문서가 있습니다. [메뉴 고르기](/guestbook-lab/menu/)에서 하나를 고르고 문서의 완료 기준까지 해 봅니다.
+과제마다 안내 문서가 있습니다. [과제 고르기](/guestbook-lab/menu/)에서 하나를 고르고 문서의 완료 기준까지 해 봅니다.
 
 ### 새로고침할 때마다 저장소 표시가 바뀝니다
 
@@ -72,7 +72,7 @@ sudo systemctl restart guestbook
 ### DB 가 몇 분째 「생성 중」입니다
 
 :::tip[정상입니다]{icon="approve-check-circle"}
-5분 넘게 걸릴 수 있습니다. 기다리는 동안 [메뉴 문서](/guestbook-lab/menu/5-rds/)의 다음 단계를 진행합니다.
+5분 넘게 걸릴 수 있습니다. 기다리는 동안 [과제 문서](/guestbook-lab/menu/5-rds/)의 다음 단계를 진행합니다.
 :::
 
 ### Chrome 이 비밀번호를 저장할지 묻습니다

diff --git a/site/src/content/docs/u13.md b/site/src/content/docs/u13.md
@@ -1,5 +1,5 @@
 ---
-# 생성물. lms build 가 courses/aws-intro/units/u13 에서 만든다. 손으로 고치지 않는다. 원본 해시 0ea2fc10ccb0
+# 생성물. lms build 가 courses/aws-intro/units/u13 에서 만든다. 손으로 고치지 않는다. 원본 해시 4094ba5be972
 title: 13단원 서버리스 맛보기
 description: Lambda 로 「급식실 한마디」 함수. 실습 순서, 복사할 명령, 막혔을 때 고치는 법
 ---
@@ -104,7 +104,7 @@ def lambda_handler(event, context):
 
 급식 리뷰 앱은 설정 파일의 `HELLO_API_URL=` 줄이 비어 있으면 앱 안 목록에서 한마디를 고르고, 초록 「급식실 한마디」 상자 오른쪽 위에 「앱 기본 문장, Lambda 연결 전」이 보입니다. 이 줄에 주소가 적혀 있으면 한마디를 보여 줄 때마다 그 주소를 불러 받은 응답의 `message` 값을 보여 주고, 상자 오른쪽 위에 「Lambda 가 몇 ms 에 답함」이 보입니다. 주소를 3초 안에 부르지 못하면 한마디 자리에 `(한마디 API 오류: 오류 이름)` 이 나옵니다. 지금 급식 리뷰 앱은 로드 밸런서 뒤 서버 두 대에서 돌고 있으니 두 대 모두 고칩니다.
 
-8. 함수 문장을 내 문장으로 바꿉니다. 앱 안 목록에도 같은 세 문장이 들어 있어서, 그대로 두면 한마디가 함수에서 왔는지 화면으로 구분되지 않습니다. 「코드」 탭 편집기에서 `MSGS` 의 따옴표 안 문장 세 개(①)를 내 문장으로 고치고 왼쪽 「DEPLOY」 구역의 「Deploy」(②)를 누릅니다. 위쪽에 초록 「업데이트되었습니다」가 보이면 됩니다.
+8. 함수 문장을 내 문장으로 바꿉니다. 화면 오른쪽 위 「Lambda 가 몇 ms 에 답함」으로도 보이지만, 강사 진척 화면은 한마디 문장이 앱 기본 문장과 다른지로 함수 연결을 셉니다. 앱 안 목록에 같은 세 문장이 들어 있어서 그대로 두면 연결해도 「안 됨」으로 셉니다. 「코드」 탭 편집기에서 `MSGS` 의 따옴표 안 문장 세 개(①)를 내 문장으로 고치고 왼쪽 「DEPLOY」 구역의 「Deploy」(②)를 누릅니다. 위쪽에 초록 「업데이트되었습니다」가 보이면 됩니다.
 
    ![코드 편집기에서 MSGS 의 문장 세 줄과 DEPLOY 구역의 Deploy 단추에 번호를 붙여 표시한 화면](../../assets/u13/fn-edit.png)
 
